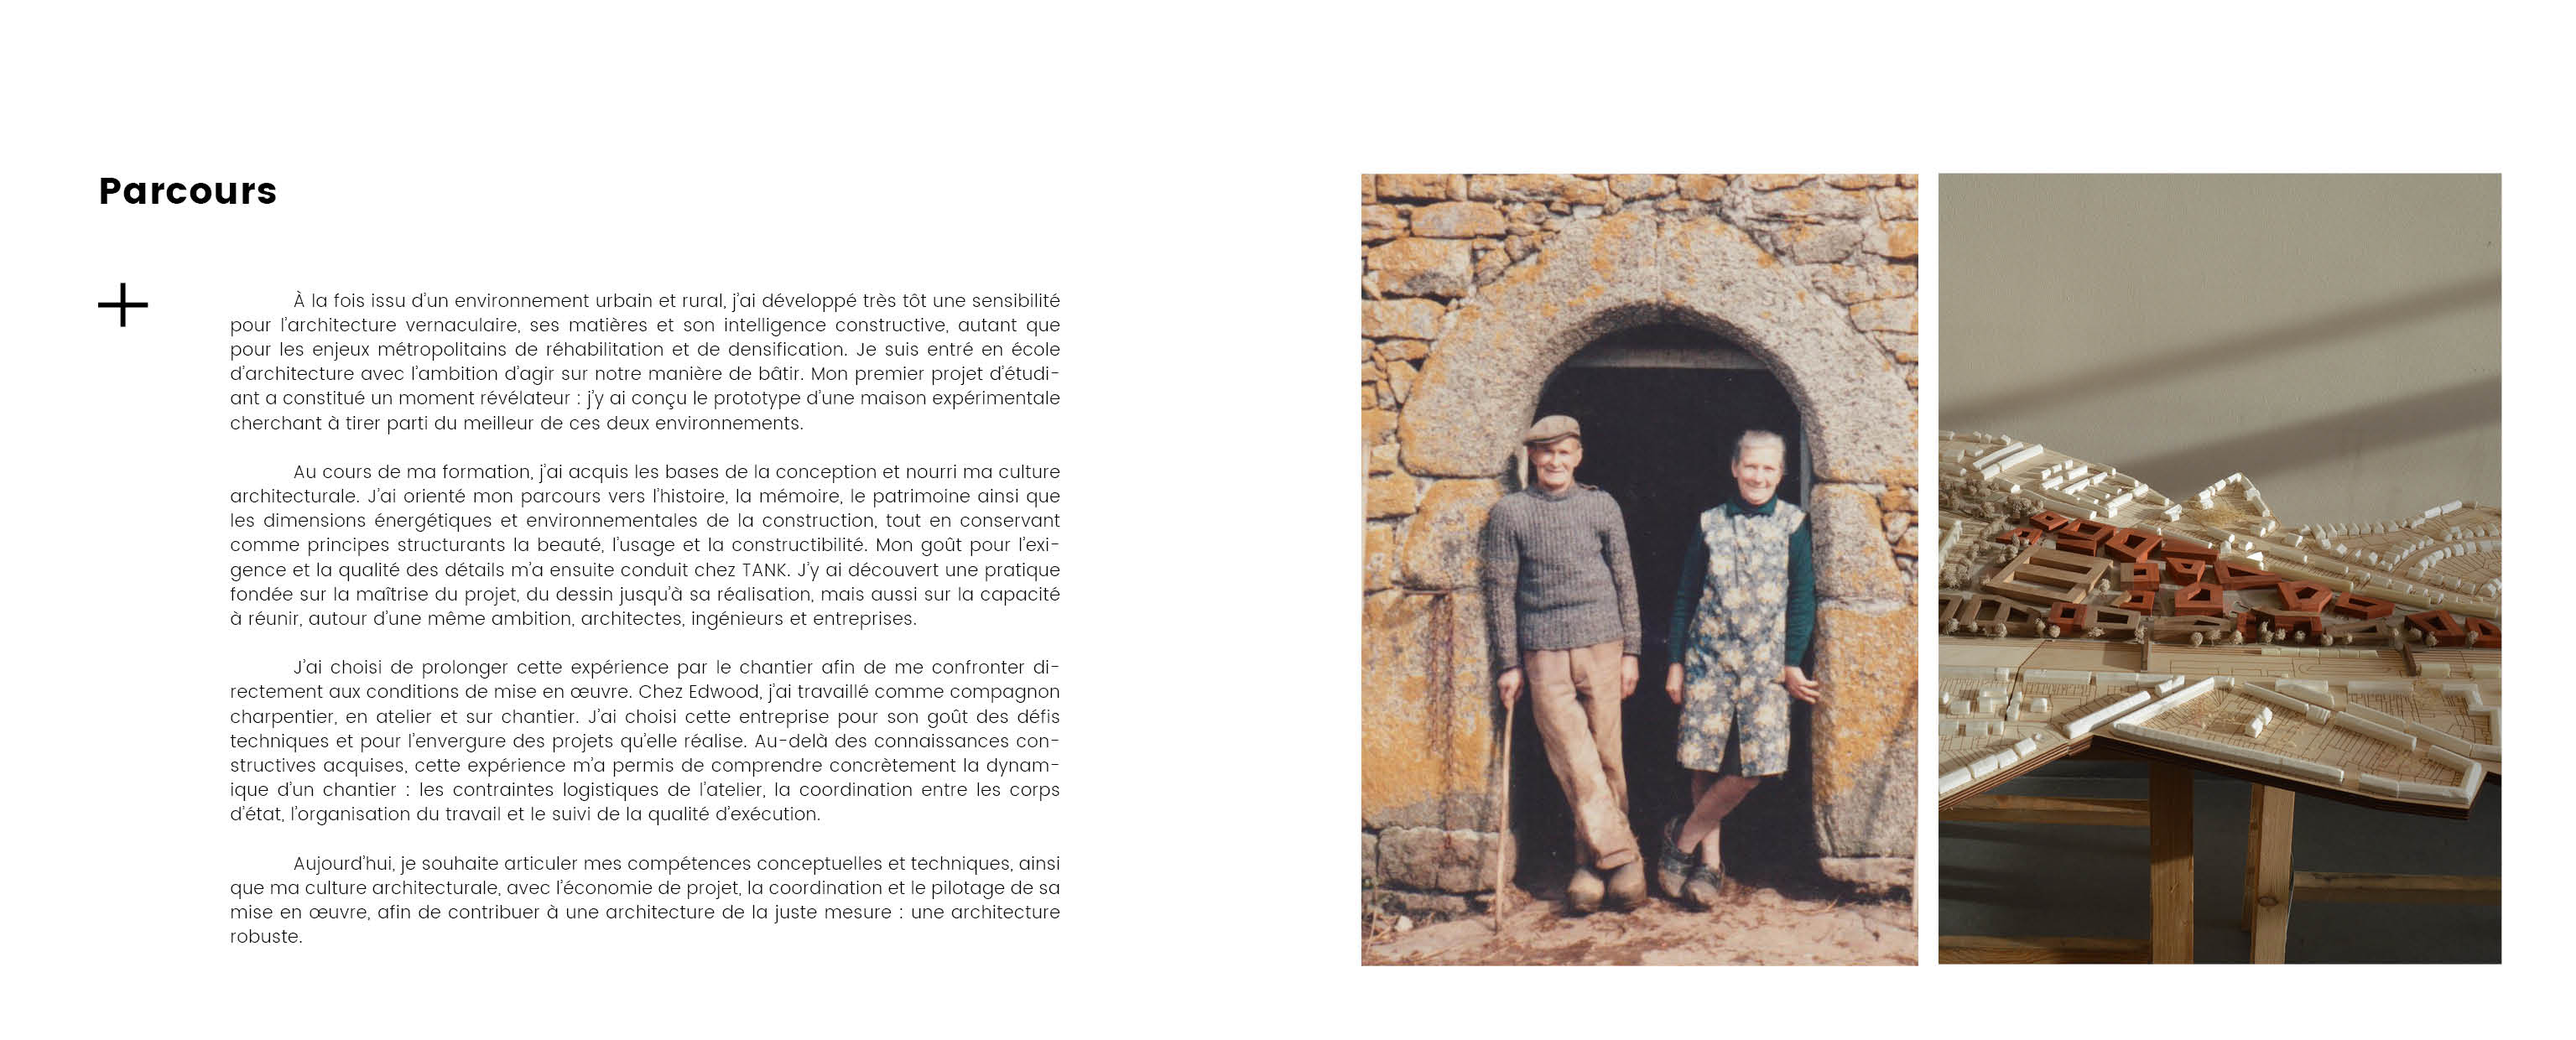
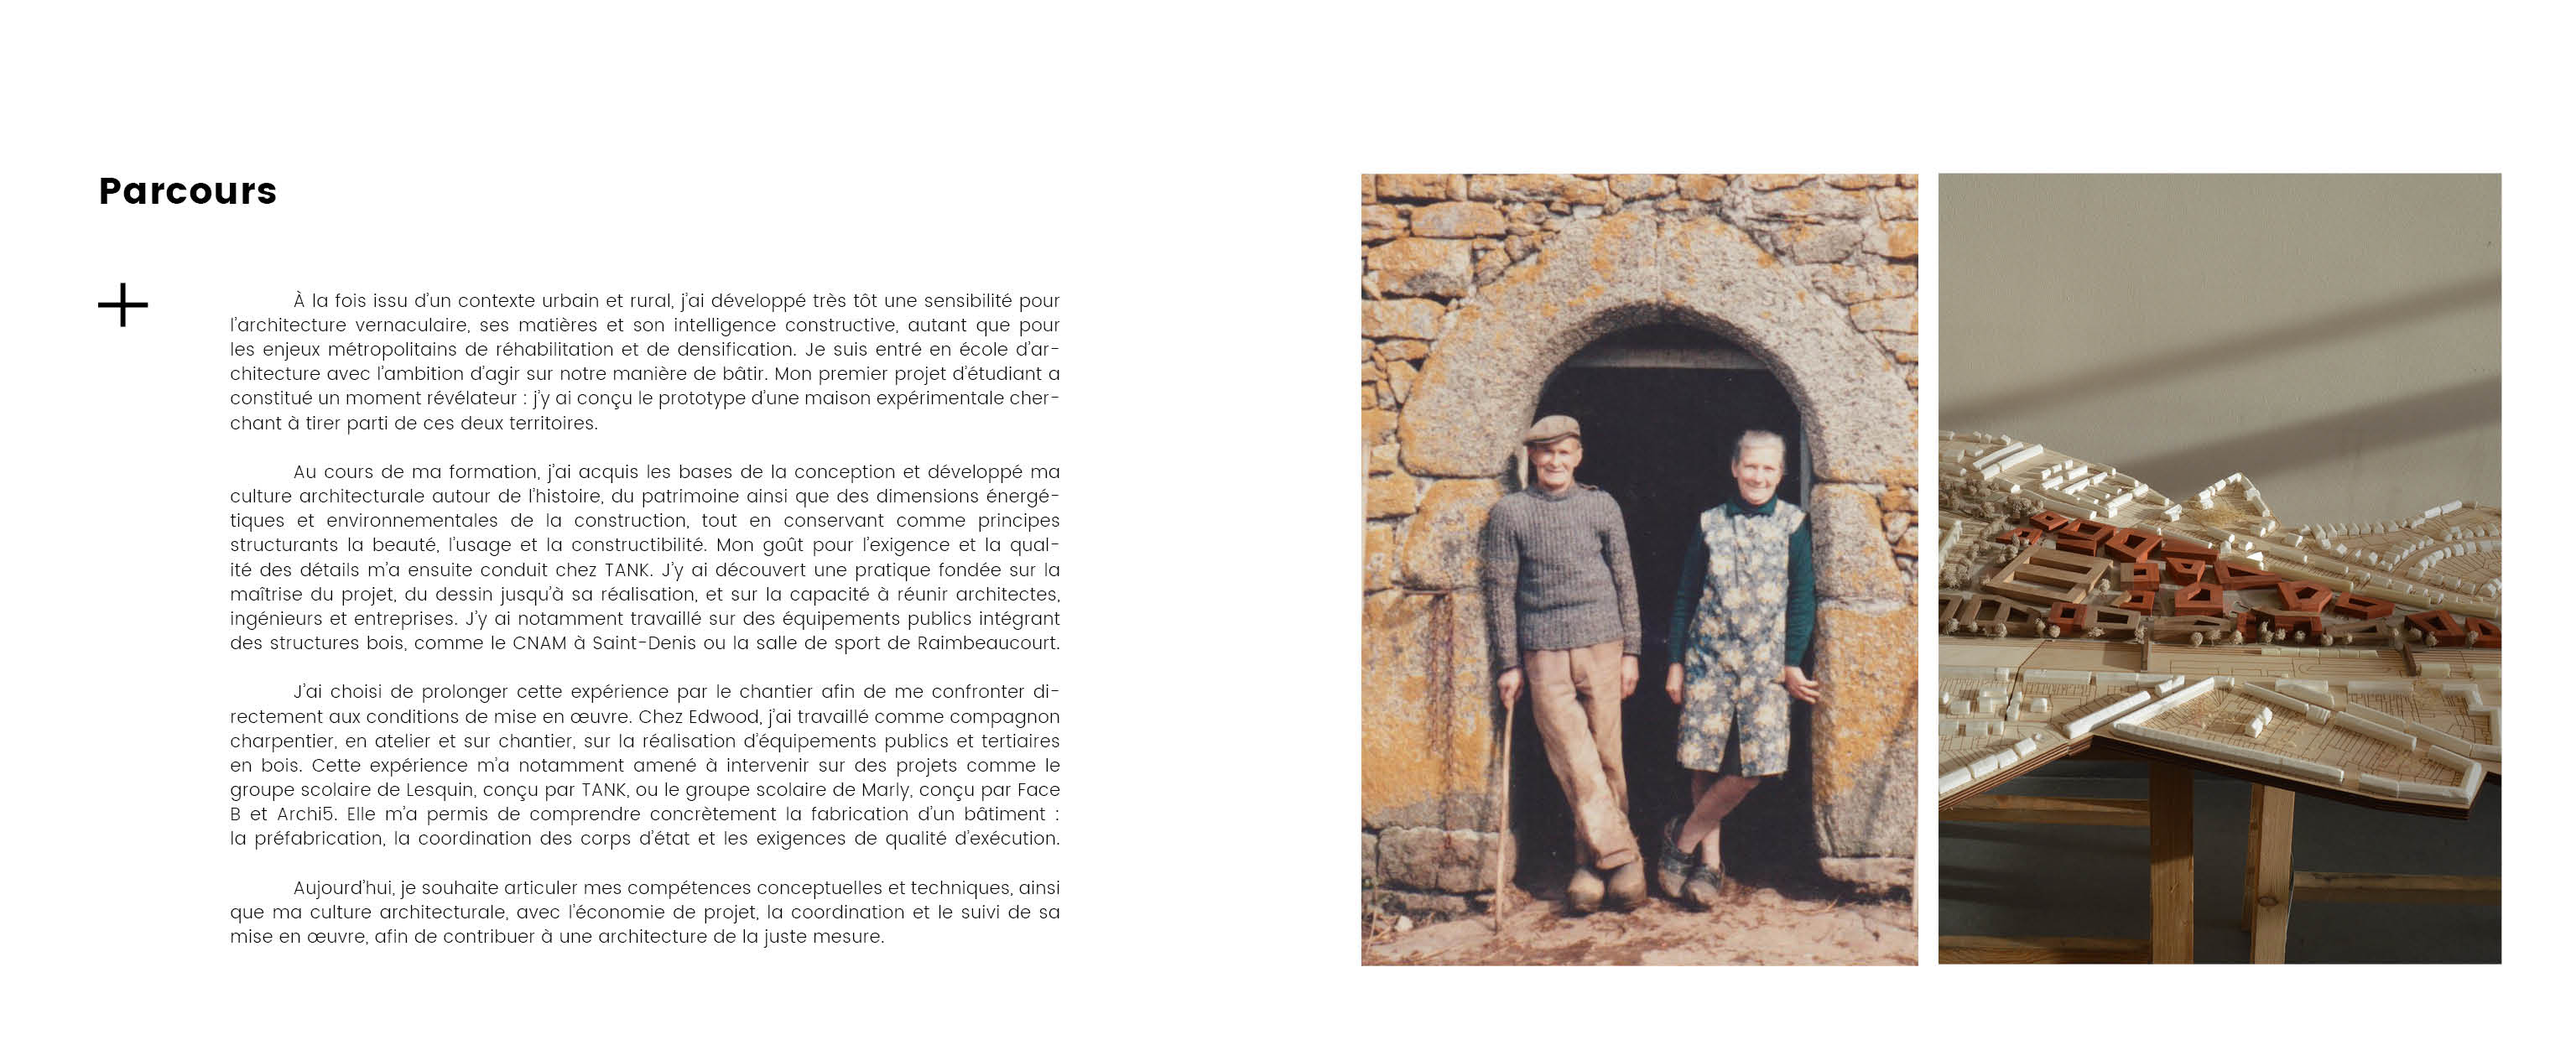
Update about parcours content

Changed region(s): [[0.0928, 0.2758, 0.4021, 0.9194]]

diff --git a/desktop.html b/desktop.html
@@ -398,7 +398,7 @@
 
     const VIGNETTE_FOLDER = "Vignettes/";
     const ABOUT_FOLDER = "apropos/";
-    const ABOUT_ASSET_VERSION = "2026-07-21-1";
+    const ABOUT_ASSET_VERSION = "2026-07-21-2";
     const ABOUT_TOTAL = 4;
     const ABOUT_ALTS = [
       "Approche architecturale et structure intérieure en bois",

diff --git a/mobile.html b/mobile.html
@@ -1156,7 +1156,7 @@
 
     const VIGNETTE_FOLDER = "Vignettes/";
     const ABOUT_FOLDER = "parcours-mobile/";
-    const ABOUT_ASSET_VERSION = "2026-07-21-1";
+    const ABOUT_ASSET_VERSION = "2026-07-21-2";
     const CONTACT_FOLDER = "contact-mobile/";
     const CONTACT_PAGE = 4;
     const ABOUT_TOP_OFFSET = 64;
